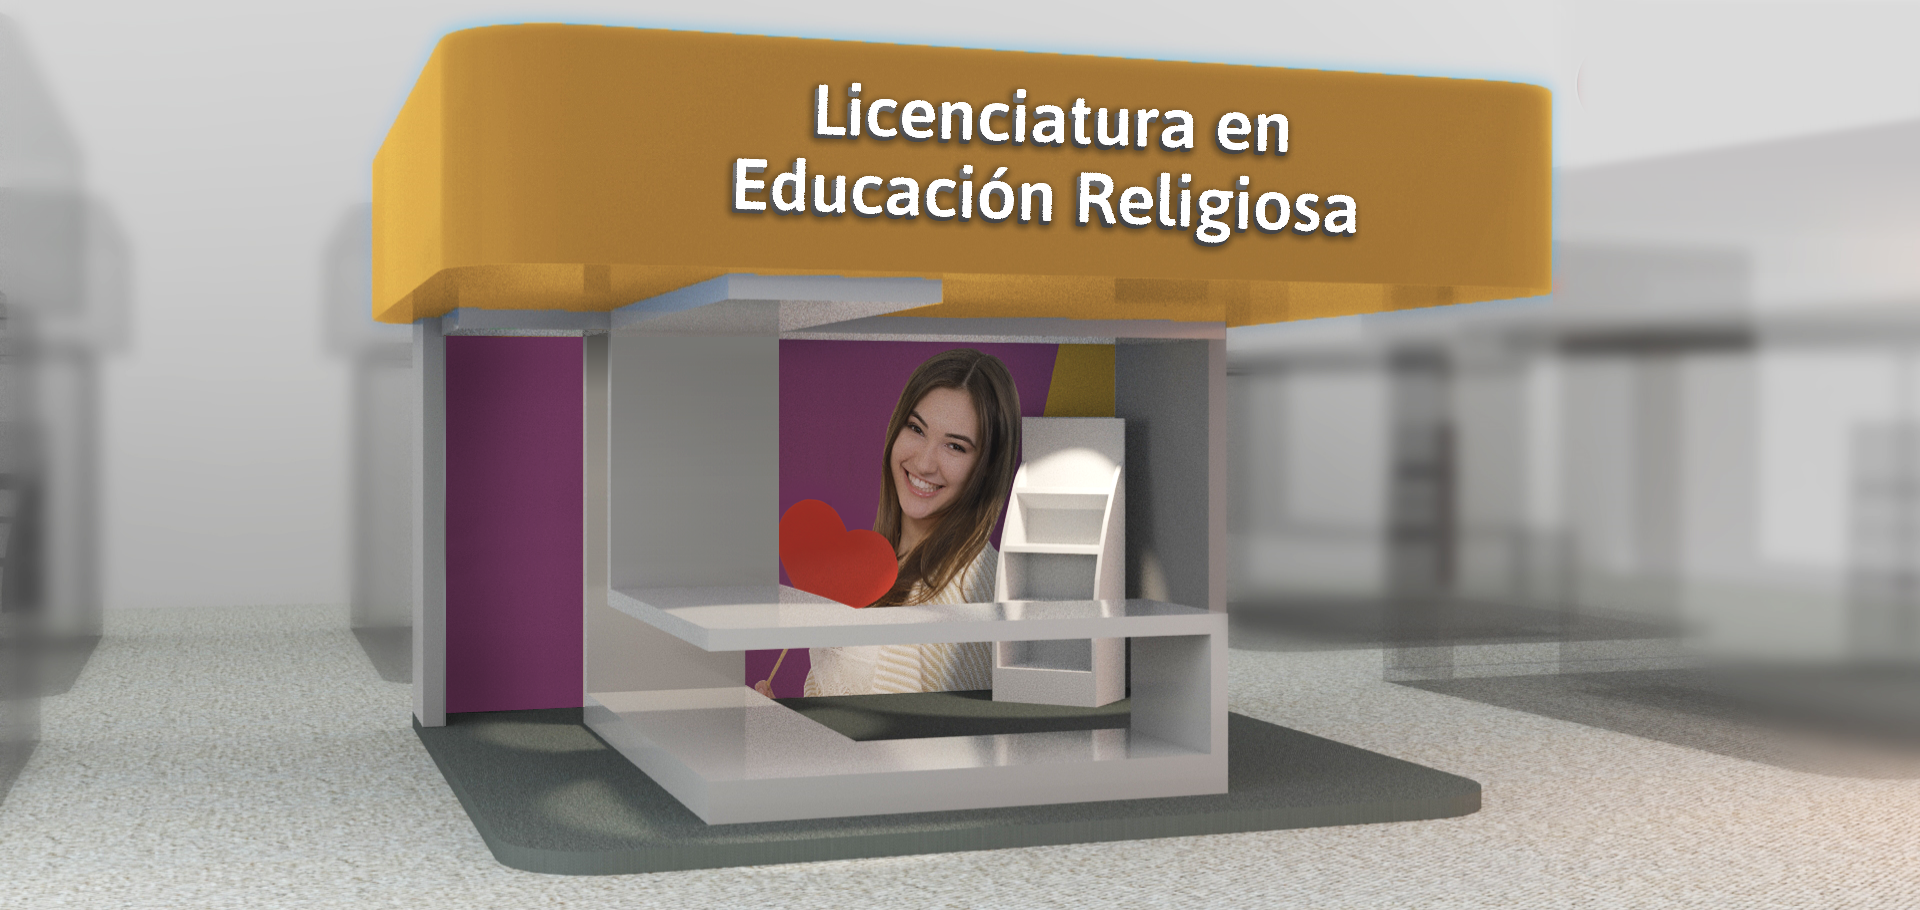
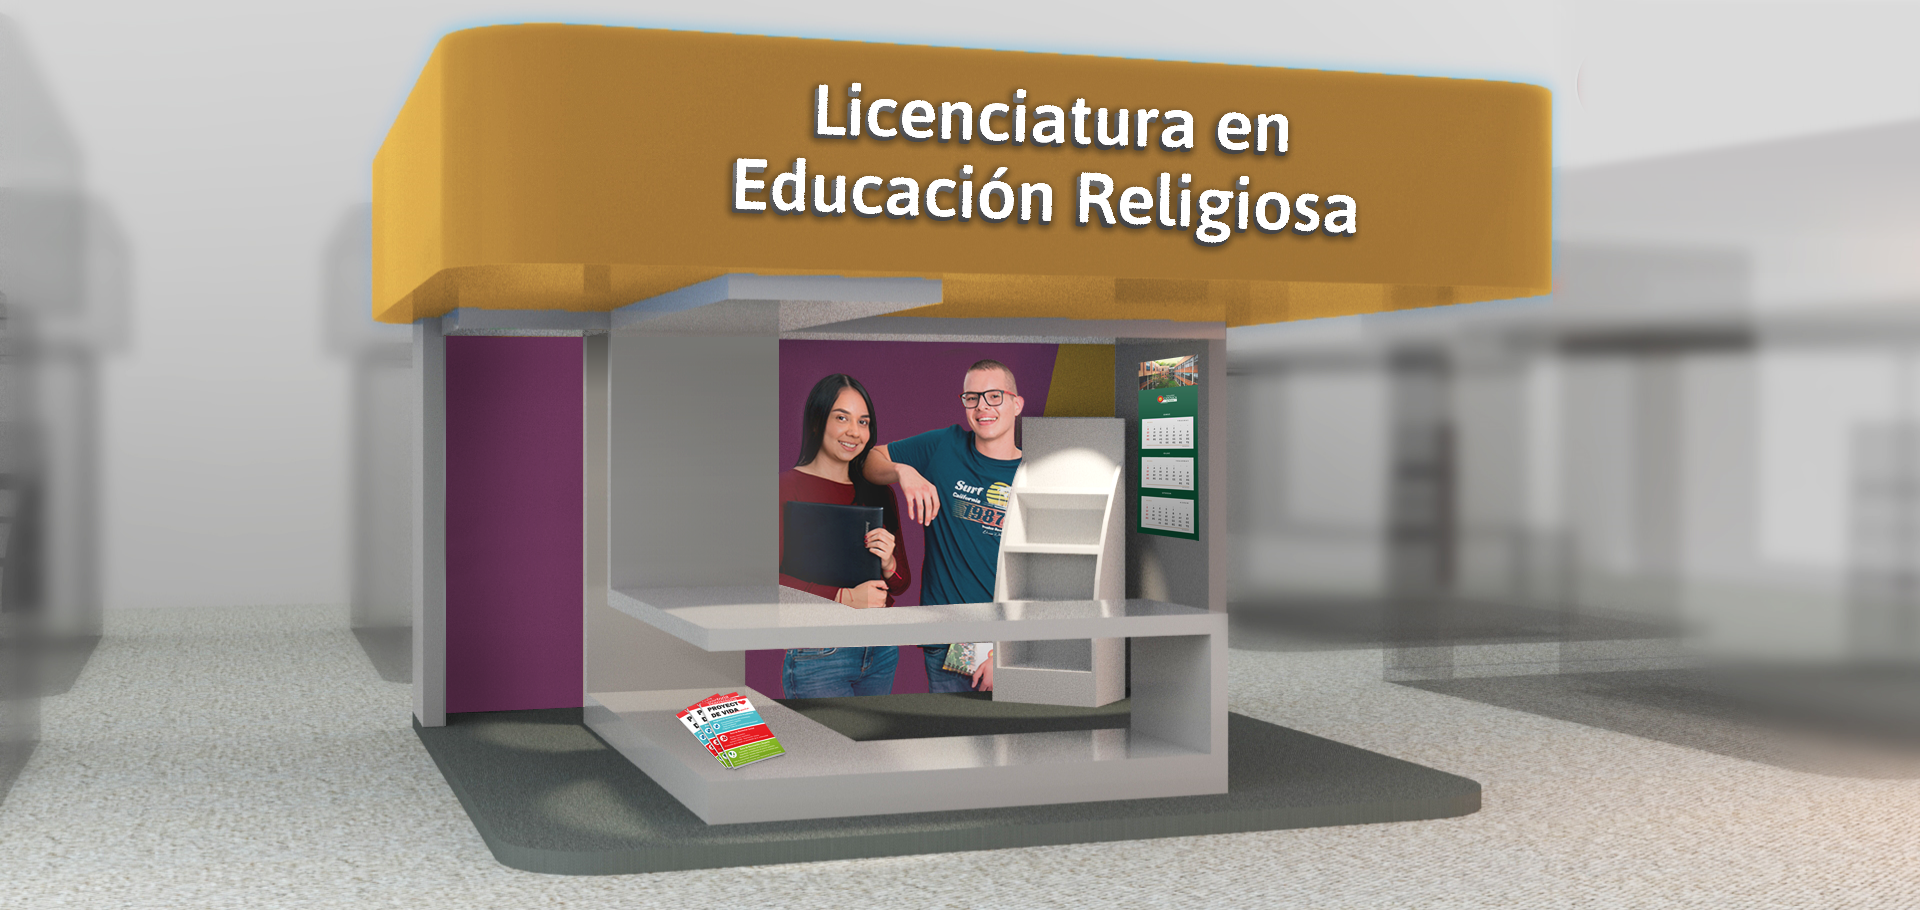
Cambio de imagen progrma y puesta de copy fotografìa plaza

Changed region(s): [[0.4062, 0.3692, 0.5312, 0.6769], [0.3438, 0.7077, 0.5312, 0.8615], [0.5938, 0.3692, 0.625, 0.6154]]

diff --git a/src/app/pages/entrada/entrada.component.html b/src/app/pages/entrada/entrada.component.html
@@ -1,77 +1,71 @@
-
-  <a-scene>
-    <a-assets>
-        <img id="banner" src="./assets/img/home/banner.png" alt="">
-        <!-- <img id="logoucp" src="./assets/img/home/logo.png" alt=""> -->
-        <img id="fondoucp" src="./assets/img/home/full-ucp.jpg" alt="Universidad Católica de Pereira">
-        <!-- <img id="agora" src="./assets/img/home/agora.jpg" alt="Universidad Católica de Pereira">
+<a-scene>
+  <a-assets>
+    <img id="banner" src="./assets/img/home/banner.png" alt="">
+    <!-- <img id="logoucp" src="./assets/img/home/logo.png" alt=""> -->
+    <img id="fondoucp" src="./assets/img/home/full-ucp.jpg" alt="Universidad Católica de Pereira">
+    <!-- <img id="agora" src="./assets/img/home/agora.jpg" alt="Universidad Católica de Pereira">
         <img id="verde" src="./assets/img/home/verdeucp.jpg" alt="Universidad Católica de Pereira">
         <img id="pse" src="./assets/img/home/pse.png" alt="Pagos enlínea"> -->
-        <img id="pageucp" src="./assets/img/home/pageucp.png" alt="Pagos enlínea">
-        <img id="biblioteca" src="./assets/img/home/biblioteca.png" alt="Pagos enlínea">
-        <img id="dir-left" src="./assets/img/home/dir-left.png" alt="Pagos enlínea">
-        <img id="informacion" src="./assets/img/entrada/informacion.png" alt="Pagos enlínea">
-        <img id="play" src="./assets/img/entrada/play.png" alt="Pagos">
-        <img id="infomercadeo" src="./assets/img/entrada/w-info-mercadeo.png" alt="">
-        <img id="marca-corredor" src="./assets/img/entrada/marcador-corredor.png" alt="">
-        <img id="marca-verdepeatonal" src="./assets/img/entrada/marca-verdepeatonal.png" alt="">
-        
-    </a-assets>
+    <img id="pageucp" src="./assets/img/home/pageucp.png" alt="Pagos enlínea">
+    <img id="biblioteca" src="./assets/img/home/biblioteca.png" alt="Pagos enlínea">
+    <img id="dir-left" src="./assets/img/home/dir-left.png" alt="Pagos enlínea">
+    <img id="informacion" src="./assets/img/entrada/informacion.png" alt="Pagos enlínea">
+    <img id="play" src="./assets/img/entrada/play.png" alt="Pagos">
+    <img id="infomercadeo" src="./assets/img/entrada/w-info-mercadeo.png" alt="">
+    <img id="marca-corredor" src="./assets/img/entrada/marcador-corredor.png" alt="">
+    <img id="marca-verdepeatonal" src="./assets/img/entrada/marca-verdepeatonal.png" alt="">
 
-    
+  </a-assets>
 
 
 
-                    
-  <a-image   position="5.8 2.9 -7.5" rotation="0 -50 -3" src="#marca-verdepeatonal" width="2" height="1" [routerLink]="['/peatonal-zonaverde']">
+
+
+
+  <a-image position="5.8 2.9 -7.5" rotation="0 -50 -3" src="#marca-verdepeatonal" width="2" height="1"
+    [routerLink]="['/peatonal-zonaverde']">
   </a-image>
 
-  <a-image   position="5 2.9 -1.7" rotation="0 -50 -3" src="#marca-corredor" width="2" height="1" [routerLink]="['/corredor-principal']">
+  <a-image position="5 2.9 -1.7" rotation="0 -50 -3" src="#marca-corredor" width="2" height="1"
+    [routerLink]="['/corredor-principal']">
   </a-image>
 
-  <a-image id="elementInfomercadeo"  position="4.5 3 7.9" rotation="0 185 -3" src="#infomercadeo" width="2" height="1" [routerLink]="['/mercadeo-matriculas']">
+  <a-image id="elementInfomercadeo" position="4.5 3 7.9" rotation="0 185 -3" src="#infomercadeo" width="2" height="1"
+    [routerLink]="['/mercadeo-matriculas']">
   </a-image>
 
-  <a-image position="0 4.2 10" rotation="0 180 -4.9" src="#biblioteca" width="4" height="2.4" navigate-on-click="url: https://biblioteca.ucp.edu.co/" >
+  <a-image position="0 4.2 10" rotation="0 180 -4.9" src="#biblioteca" width="4" height="2.4"
+    navigate-on-click="url: https://biblioteca.ucp.edu.co/">
   </a-image>
 
   <!-- <a-image position="8 5.4 2" link="href: https://www.pagosvirtualesavvillas.com.co/personal/pagos/8282; title: Pago de inscripciones; color: green;" rotation="1 95 3"></a-image> -->
   <!-- <a-image height="2" position="-2 .4 -9" link="href: feriados.html; title: visita: www.ucp.edu.co; color: red; repeat: 1 2;"></a-image> -->
-  
+
 
   <!-- banner -->
-  <a-image position="-8 1.9 12" rotation="0 128 0" depth="3" src="#banner" width="8" height="3.5"  navigate-on-click="url: https://matriculas.ucp.edu.co/se/inscriptions.aspx" 
-  event-set__enter="_event: mouseenter; color: #cococo"  
-  event-set__leave="_event: mouseleave; color: #fff">  
-   <!-- This animation begins when the sphere is clicked with the mouse. -->
-   <a-animation attribute="rotation"
-   dur="2000"
-   fill="forwards"
-   to="0 2.5 2.4"
-   direction="alternate"
-   begin="mouseenter"></a-animation>
+  <a-image position="-8 1.9 12" rotation="0 128 0" depth="3" src="#banner" width="8" height="3.5"
+    navigate-on-click="url: https://matriculas.ucp.edu.co/se/inscriptions.aspx"
+    event-set__enter="_event: mouseenter; color: #cococo" event-set__leave="_event: mouseleave; color: #fff">
+    <!-- This animation begins when the sphere is clicked with the mouse. -->
+    <a-animation attribute="rotation" dur="2000" fill="forwards" to="0 2.5 2.4" direction="alternate"
+      begin="mouseenter"></a-animation>
   </a-image>
 
 
-  <a-box color="#ffffff"
-                    height="5"
-                    width="8.5"
-                    position="-7 1.2 -10"
-                    rotation="0 200 0"
-                    depth="0.5"
-                    repeat="1"
-                    src="#play"
-                    navigate-on-click="url: https://youtu.be/W15wHejwKPc"
-                    ></a-box>
+  <a-box color="#ffffff" height="5" width="8.5" position="-7 1.2 -10" rotation="0 200 0" depth="0.5" repeat="1"
+    src="#play" navigate-on-click="url: https://youtu.be/W15wHejwKPc"></a-box>
 
 
   <!-- button to start visit stands  -->
   <!-- <a [routerLink]="['/experiencia-unica']" title="entrar" class="link2 absoluto btn btn-warning px-3">Ingresar al campus</a> -->
 
-  
+
   <!-- button to start visit stands  -->
-  <a [routerLink]="['/experiencia-unica']" title="entrar" class="position btnoferta-ubicacion btn btn-warning px-3">Conoce nuestra oferta académica</a>
-  <a class="position ctrl-ubicacion absolute px-3"  alt=""><img style="display: block;" src="./assets/img/general/controls.png" alt=""></a>
+  <a [routerLink]="['/experiencia-unica']" title="entrar"
+    class="position btnoferta-ubicacion btn btn-warning px-3">Conoce nuestra oferta académica</a>
+  <p class="position autor">Fotografía por <b>Steven Agudelo</b></p>
+  <a class="position ctrl-ubicacion absolute px-3" alt=""><img style="display: block;"
+      src="./assets/img/general/controls.png" alt=""></a>
 
 
   <div class="w-sites position">
@@ -82,17 +76,18 @@
 
   <!-- 360-degree image. -->
   <a-sky id="image-360" radius="80" src="#fondoucp"
-  animation__fade="property: components.material.material.color; type: color; from: #FFF; to: #000; dur: 300; startEvents: fade"
-  animation__fadeback="property: components.material.material.color; type: color; from: #000; to: #FFF; dur: 300; startEvents: animationcomplete__fade"></a-sky>
+    animation__fade="property: components.material.material.color; type: color; from: #FFF; to: #000; dur: 300; startEvents: fade"
+    animation__fadeback="property: components.material.material.color; type: color; from: #000; to: #FFF; dur: 300; startEvents: animationcomplete__fade">
+  </a-sky>
 
-  
-   <!-- 
+
+  <!-- 
        The camera has a cursor component,
        which uses the mouse as the rayOrigin,
        so that you can click entities in the scene
        with the mouse.
   -->
-  <a-entity id="camera" camera="userHeight: .2" position="0 2 0" rotation="0 89 -3" look-controls cursor="rayOrigin: mouse">
+  <a-entity id="camera" camera="userHeight: .2" position="0 2 0" rotation="0 89 -3" look-controls
+    cursor="rayOrigin: mouse">
   </a-entity>
 </a-scene>
-

diff --git a/src/app/pages/entrada/entrada.component.css b/src/app/pages/entrada/entrada.component.css
@@ -6,6 +6,13 @@
 
 }
 
+.autor {
+    bottom: 1%;
+    left: 1%;
+    font-size: 1rem;
+    color: #57595b;
+}
+
 .ctrl-ubicacion {
     bottom: 10%;
     left: 0;
